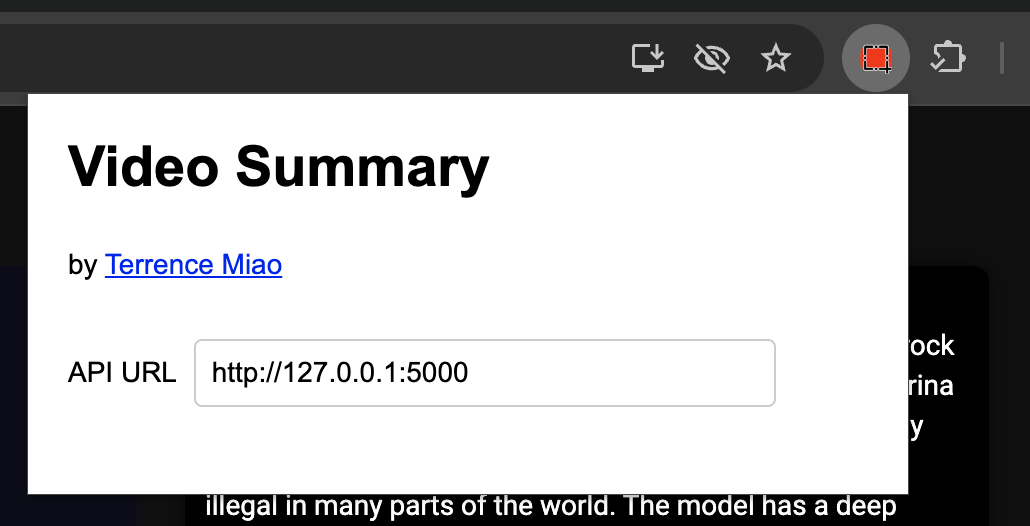
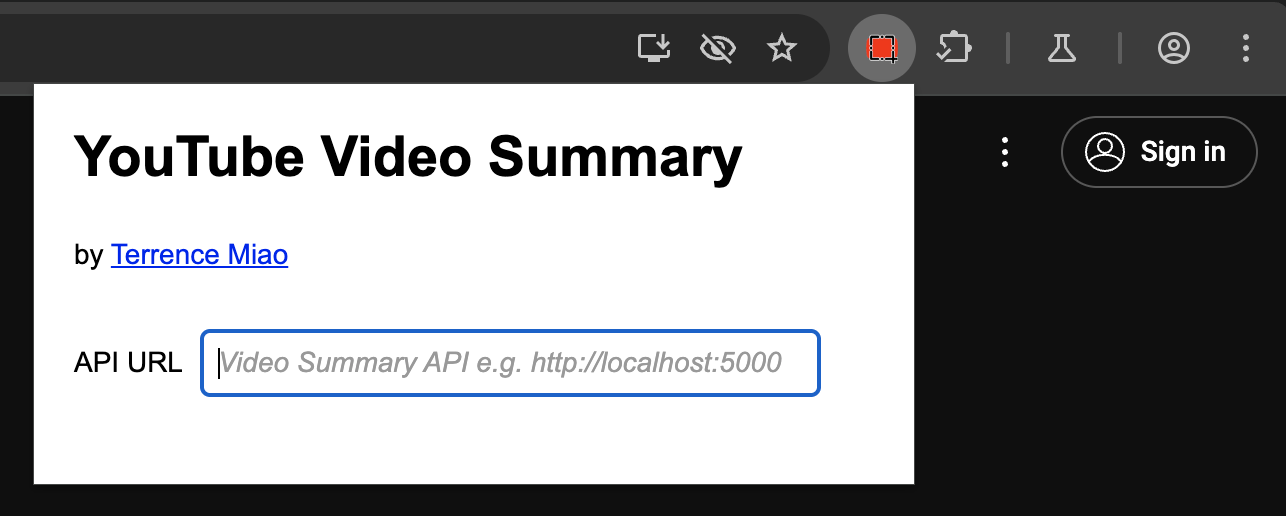
Update Video Summary Chrome Extension screenshot

Changed region(s): [[0.0, 0.0, 1.0, 0.9922], [0.0621, 0.2481, 0.5903, 0.3721], [0.0621, 0.4651, 0.2796, 0.5271]]

diff --git a/video/extension/options.html b/video/extension/options.html
@@ -32,7 +32,7 @@
       }
 
       .url-input {
-        width: 70%;
+        width: 75%;
         padding: 8px;
         margin-top: 5px;
         margin-left: 5px;
@@ -48,7 +48,7 @@
   </head>
 
   <body>
-    <h1>Video Summary</h1>
+    <h1>YouTube Video Summary</h1>
     <p>
       by <a href="https://terrencemiao.github.io/blog/" target="_blank">Terrence Miao</a>
     </p>
@@ -59,7 +59,7 @@
         <input
           type="text"
           id="VideoSummaryURL"
-          placeholder="Enter Video Summary URL e.g. http://localhost:5000"
+          placeholder="Video Summary API e.g. http://localhost:5000"
           class="url-input"
         />
       </label>
